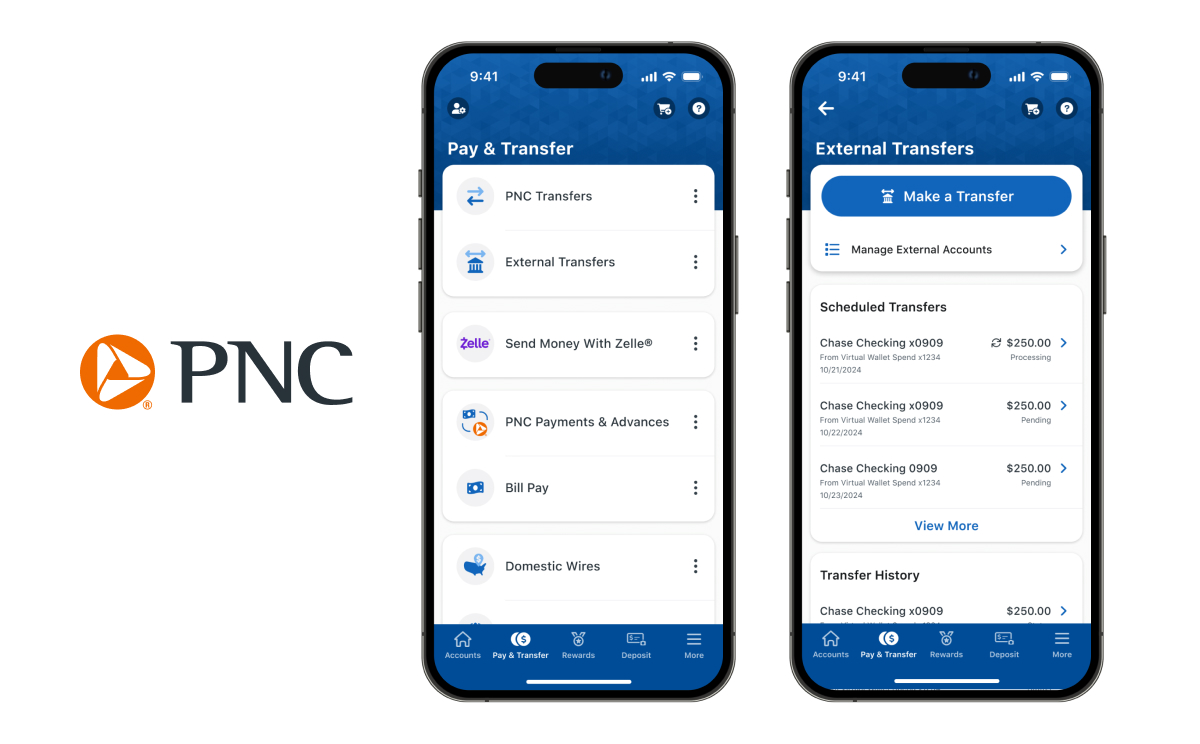
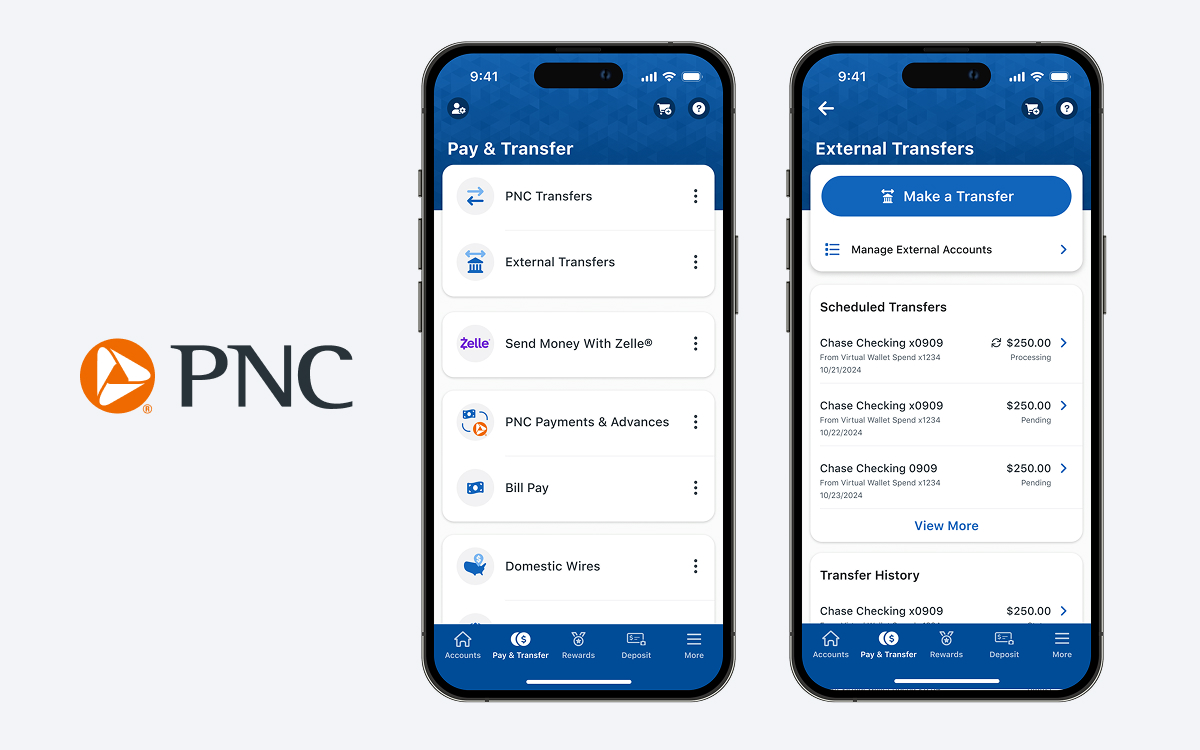
Swap in grey-panel thumbnails and match Figma corner radius
Replaces the three project thumbnails with re-exports carrying the Figma
color/grey/100 (#f2f4f7) backdrop in place of the previous white. Exports came
in at 1200x750, an exact 8:5 match for the container aspect ratio, so
object-cover no longer crops (the old assets were 1200x744).

Corner radius was 4px (Tailwind's bare `rounded`); Figma specifies
corner-radius/32. Adds both values as tokens — `surface` and `rounded-panel` —
rather than inlining them, matching how the other design values are handled.

Note: the exported files arrived named *.jpg.jpg (Figma appended an extension
to names that already carried one) and were renamed to the paths projects.ts
references. Left unfixed they would have 404'd all three thumbnails.

diff --git a/components/project-card.tsx b/components/project-card.tsx
@@ -60,7 +60,7 @@ export function ProjectCard({ project, priority }: ProjectCardProps) {
           </span>
         </div>
 
-        <div className="relative aspect-[8/5] w-full shrink-0 overflow-hidden rounded md:w-[600px]">
+        <div className="relative aspect-[8/5] w-full shrink-0 overflow-hidden rounded-panel bg-surface md:w-[600px]">
           <Image
             src={project.image}
             alt={project.imageAlt}

diff --git a/tailwind.config.ts b/tailwind.config.ts
@@ -12,6 +12,12 @@ const config: Config = {
         },
         accent: "#bc532b",
         line: "#d8d5cc",
+        // Figma color/grey/100 — thumbnail panel behind project images
+        surface: "#f2f4f7",
+      },
+      borderRadius: {
+        // Figma corner radius/32 — project thumbnail panels
+        panel: "32px",
       },
       fontFamily: {
         sans: ["var(--font-sans)", "system-ui", "sans-serif"],
